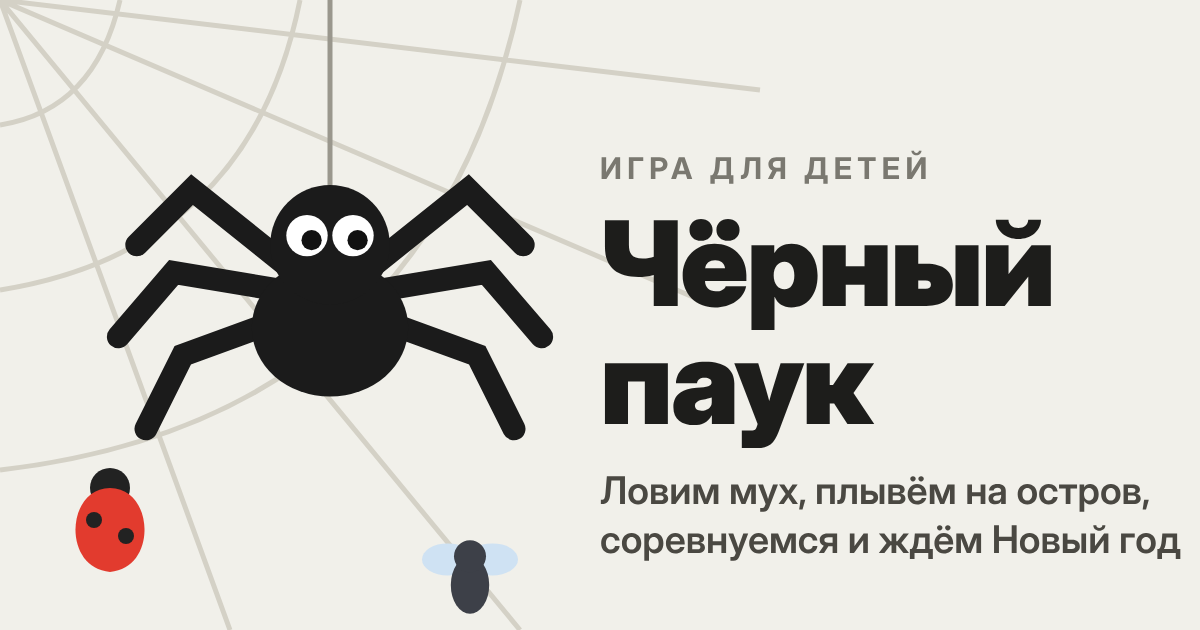
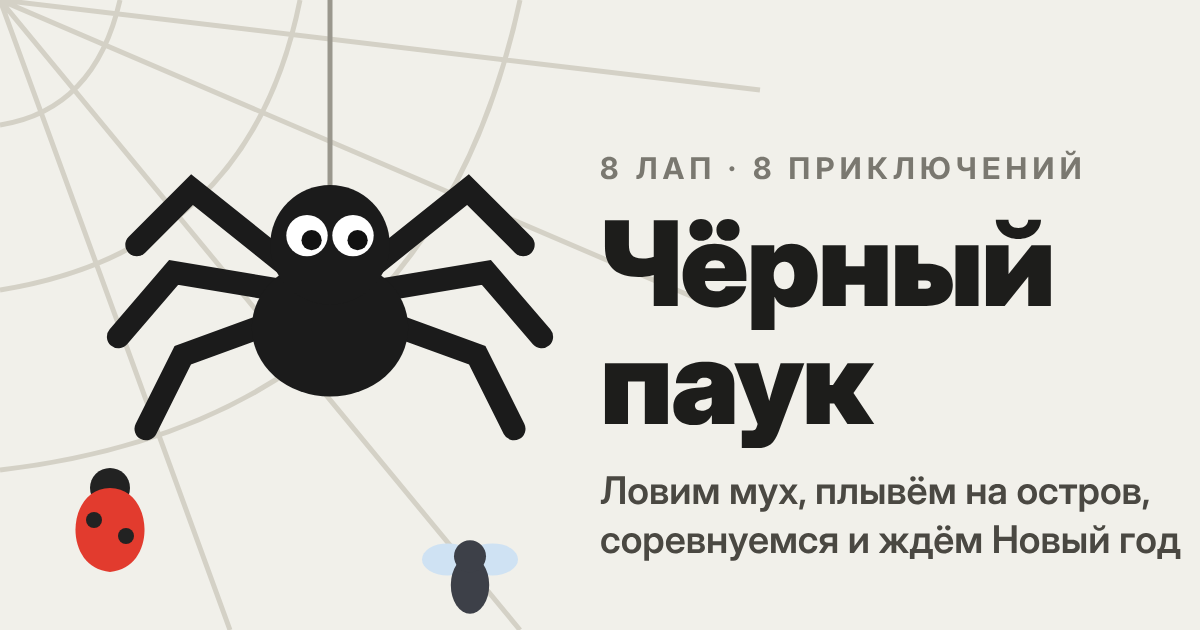
Превью: «8 лап · 8 приключений» вместо «игра для детей»
Claude-Session: https://claude.ai/code/session_01K8m4Z4JJxJxFNyqeyLnPjj

Changed region(s): [[0.4933, 0.2413, 0.925, 0.3016]]

diff --git a/index.html b/index.html
@@ -4,11 +4,11 @@
 <meta charset="utf-8">
 <meta name="viewport" content="width=device-width, initial-scale=1, viewport-fit=cover">
 <meta name="color-scheme" content="only light">
-<meta name="description" content="Добрая игра для детей про чёрного паука: ловим мух, плывём на остров, соревнуемся на олимпиаде и открываем адвент-календарь.">
+<meta name="description" content="Восемь лап — восемь приключений: ловим мух, плывём на остров, бегаем наперегонки с соседями и открываем адвент-календарь.">
 <meta property="og:type" content="website">
 <meta property="og:site_name" content="Чёрный паук">
 <meta property="og:title" content="Чёрный паук">
-<meta property="og:description" content="Добрая игра для детей: ловим мух, плывём на остров, соревнуемся и ждём Новый год.">
+<meta property="og:description" content="Восемь лап — восемь приключений! Ловим мух, плывём на остров, бегаем наперегонки и ждём Новый год.">
 <meta property="og:url" content="https://liza-games.github.io/black-spider/">
 <meta property="og:image" content="https://liza-games.github.io/black-spider/preview.png">
 <meta property="og:image:type" content="image/png">

diff --git a/build.py b/build.py
@@ -55,11 +55,11 @@ page = f"""<!doctype html>
 <meta charset="utf-8">
 <meta name="viewport" content="width=device-width, initial-scale=1, viewport-fit=cover">
 <meta name="color-scheme" content="only light">
-<meta name="description" content="Добрая игра для детей про чёрного паука: ловим мух, плывём на остров, соревнуемся на олимпиаде и открываем адвент-календарь.">
+<meta name="description" content="Восемь лап — восемь приключений: ловим мух, плывём на остров, бегаем наперегонки с соседями и открываем адвент-календарь.">
 <meta property="og:type" content="website">
 <meta property="og:site_name" content="Чёрный паук">
 <meta property="og:title" content="Чёрный паук">
-<meta property="og:description" content="Добрая игра для детей: ловим мух, плывём на остров, соревнуемся и ждём Новый год.">
+<meta property="og:description" content="Восемь лап — восемь приключений! Ловим мух, плывём на остров, бегаем наперегонки и ждём Новый год.">
 <meta property="og:url" content="https://liza-games.github.io/black-spider/">
 <meta property="og:image" content="https://liza-games.github.io/black-spider/preview.png">
 <meta property="og:image:type" content="image/png">
